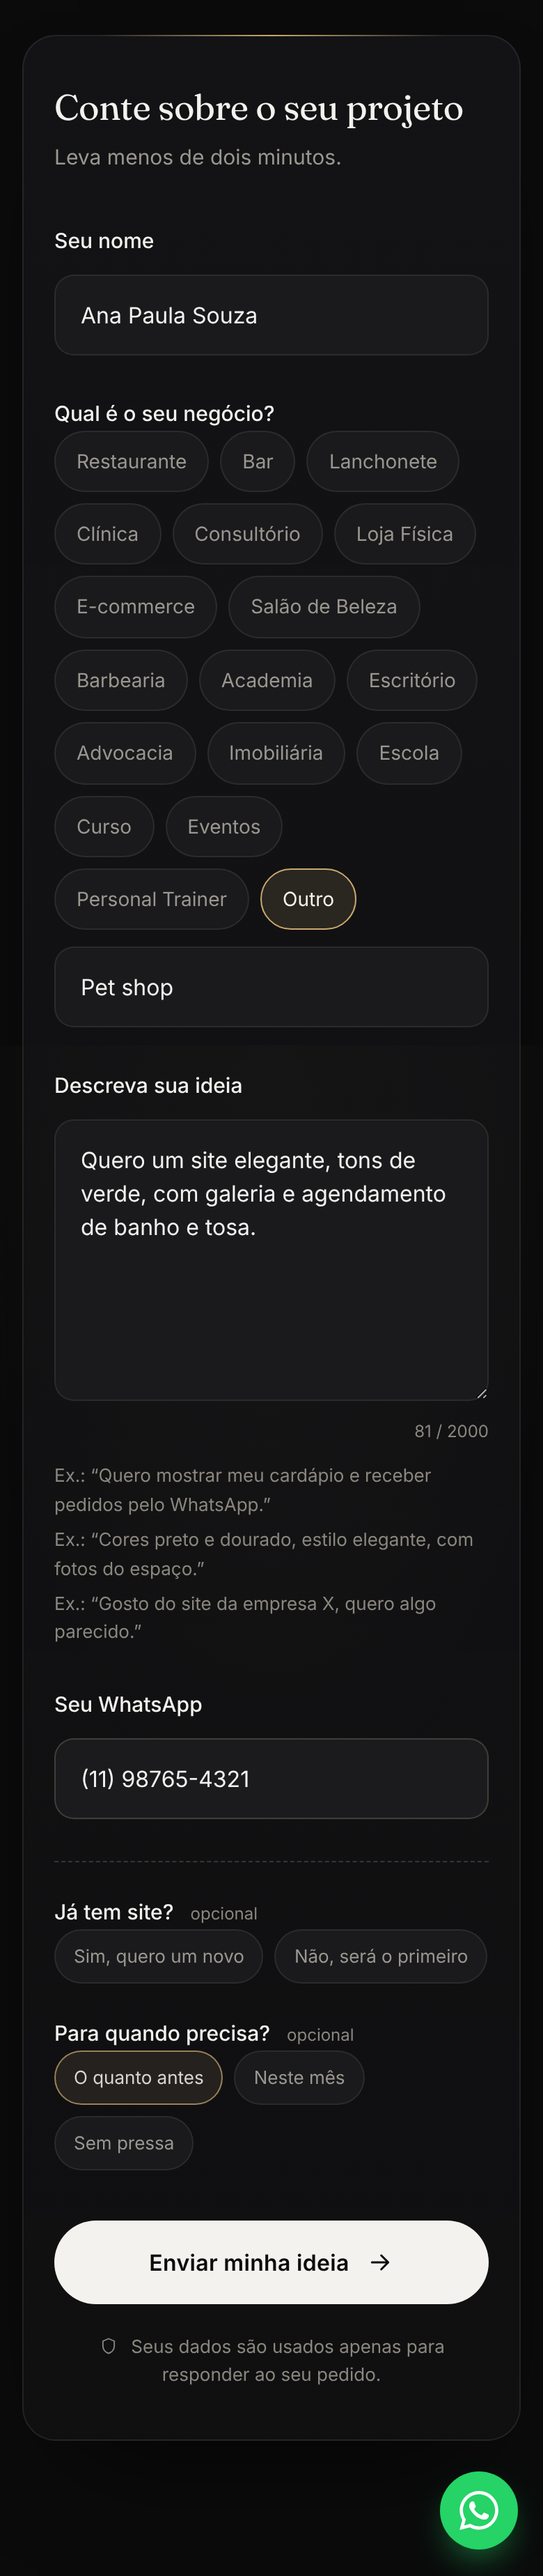
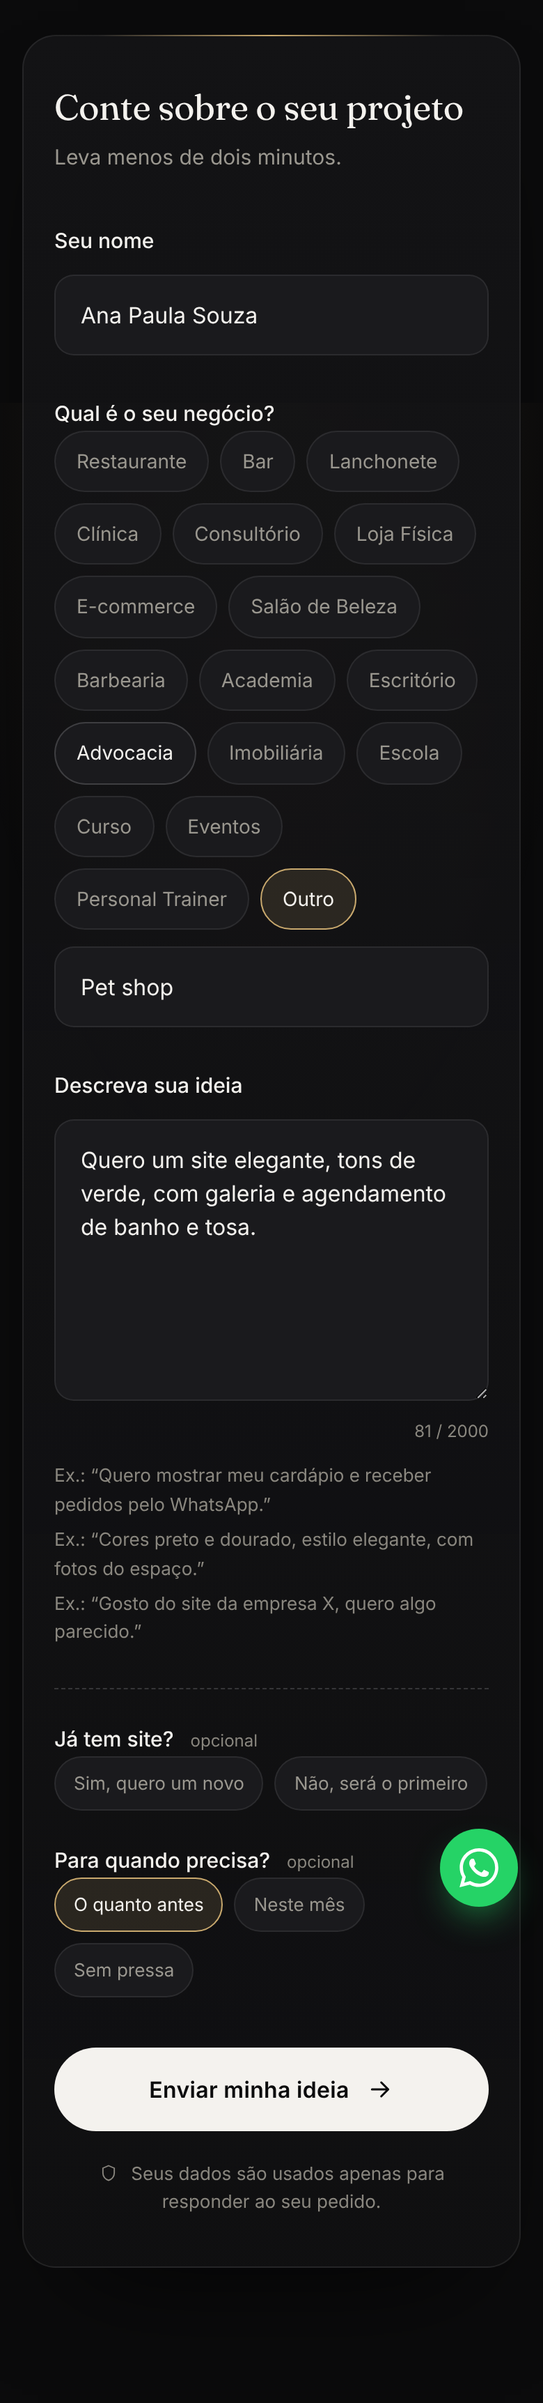
Remove o campo de WhatsApp do formulário de pedidos
O pedido é enviado pelo WhatsApp do próprio cliente, então o número já
chega com a conversa. A tela de sucesso lembra o cliente de tocar em
Enviar quando o WhatsApp é aberto, e o Apps Script passa a aceitar
pedidos sem telefone.

Claude-Session: https://claude.ai/code/session_0116UvJFRkvEnM8AnAFJzZmN

diff --git a/pedidos/js/app.js b/pedidos/js/app.js
@@ -12,13 +12,12 @@
   var outroWrap = document.getElementById("outro-wrap");
   var outro = document.getElementById("outro");
   var ideia = document.getElementById("ideia");
-  var whatsapp = document.getElementById("whatsapp");
   var honeypot = document.getElementById("empresa");
   var contador = document.getElementById("contador");
   var botao = document.getElementById("btn-enviar");
   var formErro = document.getElementById("form-erro");
   var sucesso = document.getElementById("sucesso");
-  var sucessoNumero = document.getElementById("sucesso-numero");
+  var sucessoTexto = document.getElementById("sucesso-texto");
   var botaoNovo = document.getElementById("btn-novo");
 
   var CHAVE_ULTIMO_ENVIO = "pedidos:ultimoEnvio";
@@ -117,37 +116,6 @@
   });
 
   /* ---------------------------------------------------------------------
-     Máscara de telefone brasileiro: (11) 99999-9999 ou (11) 3333-4444
-     --------------------------------------------------------------------- */
-  function soDigitos(texto) {
-    return texto.replace(/\D/g, "");
-  }
-
-  function mascararTelefone(valor) {
-    var d = soDigitos(valor);
-    // Remove o DDI 55 se a pessoa colar o número completo
-    if (d.length > 11 && d.indexOf("55") === 0) d = d.slice(2);
-    d = d.slice(0, 11);
-
-    if (d.length === 0) return "";
-    if (d.length <= 2) return "(" + d;
-    if (d.length <= 6) return "(" + d.slice(0, 2) + ") " + d.slice(2);
-    if (d.length <= 10) return "(" + d.slice(0, 2) + ") " + d.slice(2, 6) + "-" + d.slice(6);
-    return "(" + d.slice(0, 2) + ") " + d.slice(2, 7) + "-" + d.slice(7);
-  }
-
-  whatsapp.addEventListener("input", function () {
-    whatsapp.value = mascararTelefone(whatsapp.value);
-    limparErro("whatsapp");
-  });
-
-  function telefoneValido(valor) {
-    var d = soDigitos(valor);
-    if (d.length === 11) return d.charAt(2) === "9"; // celular
-    return d.length === 10;                          // fixo
-  }
-
-  /* ---------------------------------------------------------------------
      Validação
      --------------------------------------------------------------------- */
   function mostrarErro(campo, mensagem) {
@@ -185,11 +153,6 @@
       primeiroInvalido = primeiroInvalido || ideia;
     }
 
-    if (!telefoneValido(whatsapp.value)) {
-      mostrarErro("whatsapp", "Informe um WhatsApp válido com DDD.");
-      primeiroInvalido = primeiroInvalido || whatsapp;
-    }
-
     if (primeiroInvalido) primeiroInvalido.focus();
     return !primeiroInvalido;
   }
@@ -200,7 +163,6 @@
   function montarDados() {
     var tipoEscolhido = valorMarcado("tipo");
     var negocio = tipoEscolhido === "Outro" ? "Outro — " + outro.value.trim() : tipoEscolhido;
-    var telefone = whatsapp.value;
     var agora = new Date();
 
     return {
@@ -209,8 +171,6 @@
       temSite: valorMarcado("temSite"),
       prazo: valorMarcado("prazo"),
       ideia: ideia.value.trim(),
-      whatsapp: telefone,
-      whatsappLink: "https://wa.me/55" + soDigitos(telefone),
       data: agora.toLocaleDateString("pt-BR"),
       hora: agora.toLocaleTimeString("pt-BR", { hour: "2-digit", minute: "2-digit" })
     };
@@ -231,9 +191,6 @@
       "",
       "💡 *Ideia do cliente:*",
       d.ideia,
-      "",
-      "📱 *WhatsApp:* " + d.whatsapp,
-      "💬 Responder: " + d.whatsappLink,
       "",
       "_Recebido em " + d.data + " às " + d.hora + "_"
     ]).join("\n");
@@ -282,7 +239,10 @@
   }
 
   // Plano B: abre o WhatsApp do cliente com a mensagem pronta.
+  var abriuWhatsApp = false;
+
   function enviarPorLink(mensagem) {
+    abriuWhatsApp = true;
     var url = "https://wa.me/" + CONFIG.meuWhatsApp + "?text=" + encodeURIComponent(mensagem);
     window.open(url, "_blank", "noopener");
     return Promise.resolve();
@@ -325,8 +285,12 @@
      --------------------------------------------------------------------- */
   function mostrarSucesso(dados) {
     var primeiroNome = dados.nome.split(/\s+/)[0];
-    document.getElementById("sucesso-titulo").textContent = "Ideia recebida, " + primeiroNome + "!";
-    sucessoNumero.textContent = dados.whatsapp;
+    // Pelo link, o pedido só chega depois que o cliente toca em "Enviar"
+    document.getElementById("sucesso-titulo").textContent =
+      (abriuWhatsApp ? "Quase lá, " : "Ideia recebida, ") + primeiroNome + "!";
+    sucessoTexto.textContent = abriuWhatsApp
+      ? "Agora é só tocar em \u201cEnviar\u201d na conversa que abriu no WhatsApp. Assim que sua ideia chegar, eu te respondo por lá."
+      : "Obrigado por compartilhar seu projeto. Vou analisar com carinho e te respondo pelo WhatsApp em breve.";
     form.hidden = true;
     sucesso.hidden = false;
     sucesso.focus({ preventScroll: true });

diff --git a/pedidos/index.html b/pedidos/index.html
@@ -151,15 +151,6 @@
             </ul>
           </div>
 
-          <!-- WhatsApp -->
-          <div class="field">
-            <label class="field__label" for="whatsapp">Seu WhatsApp</label>
-            <input class="input" type="tel" id="whatsapp" name="whatsapp"
-                   inputmode="numeric" autocomplete="tel-national"
-                   placeholder="(XX) XXXXX-XXXX" maxlength="15" required>
-            <p class="field__error" id="whatsapp-erro" role="alert"></p>
-          </div>
-
           <!-- Opcionais -->
           <div class="optional">
             <fieldset class="field">
@@ -207,8 +198,8 @@
             <svg viewBox="0 0 52 52"><circle cx="26" cy="26" r="24"/><path d="M15 27l7 7 15-16"/></svg>
           </div>
           <h2 id="sucesso-titulo">Ideia recebida!</h2>
-          <p>Obrigado por compartilhar seu projeto. Vou analisar com carinho e
-             falar com você pelo WhatsApp <strong id="sucesso-numero"></strong> em breve.</p>
+          <p id="sucesso-texto">Obrigado por compartilhar seu projeto. Vou analisar com
+             carinho e te respondo pelo WhatsApp em breve.</p>
           <button class="btn btn--ghost" type="button" id="btn-novo">Enviar outra ideia</button>
         </div>
       </div>
@@ -244,7 +235,7 @@
         </details>
         <details>
           <summary>Como vou receber a resposta?</summary>
-          <p>Pelo WhatsApp que você informar no formulário. Se preferir falar antes de preencher, use o botão do WhatsApp logo abaixo.</p>
+          <p>Pelo WhatsApp. Ao enviar o formulário, sua ideia chega para mim por lá e eu te respondo na mesma conversa. Se preferir falar antes de preencher, use o botão do WhatsApp logo abaixo.</p>
         </details>
       </div>
 

diff --git a/pedidos/README.md b/pedidos/README.md
@@ -1,9 +1,14 @@
 # Pedidos de site · Formulário de captura
 
 Página de captura de pedidos de criação de sites. O cliente informa o nome,
-escolhe o tipo de negócio, descreve a ideia e informa o WhatsApp. Ao tocar em
-**Enviar minha ideia**, o pedido vai para uma **planilha do Google Sheets** e
-você recebe um **e-mail de aviso**, sem abrir o WhatsApp do cliente.
+escolhe o tipo de negócio e descreve a ideia. Ao tocar em **Enviar minha
+ideia**, o WhatsApp dele abre com a mensagem pronta para o seu número, e ele
+só precisa tocar em "Enviar". Como a conversa já vem do WhatsApp do cliente,
+o formulário não pede o número dele.
+
+Também dá para receber os pedidos sem abrir o WhatsApp do cliente (planilha
+do Google Sheets, CallMeBot ou webhook). Nesses modos, recoloque o campo
+"Seu WhatsApp" no formulário, senão você fica sem como responder.
 
 Feito só com **HTML, CSS e JavaScript puro**. Não precisa de build: é só subir
 a pasta para qualquer hospedagem (GitHub Pages, Netlify, Vercel, Hostinger…).
@@ -40,14 +45,14 @@ escolhidos em `js/config.js`:
 
 | Modo | Abre o WhatsApp do cliente? | Configuração |
 |------|-----------------------------|--------------|
-| `"planilha"` (padrão) | **Não** | 5 minutos, grátis |
+| `"planilha"` | **Não** | 5 minutos, grátis |
 | `"callmebot"` | **Não** | Chave do CallMeBot |
 | `"webhook"` | **Não** | Precisa de um endpoint seu |
-| `"link"` | Sim (plano B) | Nenhuma |
+| `"link"` (em uso) | Sim | Nenhuma |
 
 ---
 
-## 1. Google Sheets (padrão, grátis)
+## 1. Google Sheets (grátis)
 
 Cada pedido vira uma linha na planilha (data, nome, negócio, já tem site,
 prazo, ideia, WhatsApp e link para responder) e você recebe um e-mail na sua
@@ -135,8 +140,6 @@ este JSON:
   "dados": {
     "negocio": "Restaurante",
     "ideia": "Quero um site...",
-    "whatsapp": "(11) 98765-4321",
-    "whatsappLink": "https://wa.me/5511987654321",
     "data": "09/10/2026",
     "hora": "14:32"
   }
@@ -148,11 +151,12 @@ Seu endpoint envia `mensagem` para `destino` pelo provedor que você usar
 Ele precisa aceitar requisições do domínio do site (CORS). Use esse modo se
 quiser esconder as chaves do provedor.
 
-## 4. Modo link (plano B)
+## 4. Modo link (em uso)
 
 Com `modoEnvio: "link"`, o site abre o WhatsApp do cliente numa nova aba com a
-mensagem pronta. Não exige configuração, mas o cliente ainda precisa tocar em
-"Enviar".
+mensagem pronta para o seu número. Não exige configuração, mas o cliente
+precisa tocar em "Enviar". A tela de sucesso lembra disso a ele. Os outros
+modos também caem aqui enquanto não estiverem configurados.
 
 ---
 
@@ -168,20 +172,15 @@ mensagem pronta. Não exige configuração, mas o cliente ainda precisa tocar em
 💡 *Ideia do cliente:*
 Quero um site elegante, com cardápio e reservas...
 
-📱 *WhatsApp:* (11) 98765-4321
-💬 Responder: https://wa.me/5511987654321
-
 _Recebido em 09/10/2026 às 14:32_
 ```
 
 As linhas "Já tem site" e "Prazo" só aparecem quando o cliente responde
-essas perguntas opcionais. Toque no link "Responder" para abrir a conversa com o cliente. Para mudar o
-texto, edite a função `montarMensagem` em `js/app.js`.
+essas perguntas opcionais. Para mudar o texto, edite a função
+`montarMensagem` em `js/app.js`.
 
 ## Outros detalhes
 
-- **Máscara de telefone:** `(11) 98765-4321` para celular e `(11) 3333-4444`
-  para fixo. Se o cliente colar o número com `+55`, o DDI é removido.
 - **Anti-spam:** um campo invisível pega robôs, e o mesmo navegador só pode
   enviar de novo depois de `intervaloEntreEnvios` segundos (padrão: 60).
 - **Nome da marca:** troque "Studio" no `index.html` (topo e rodapé) e na
